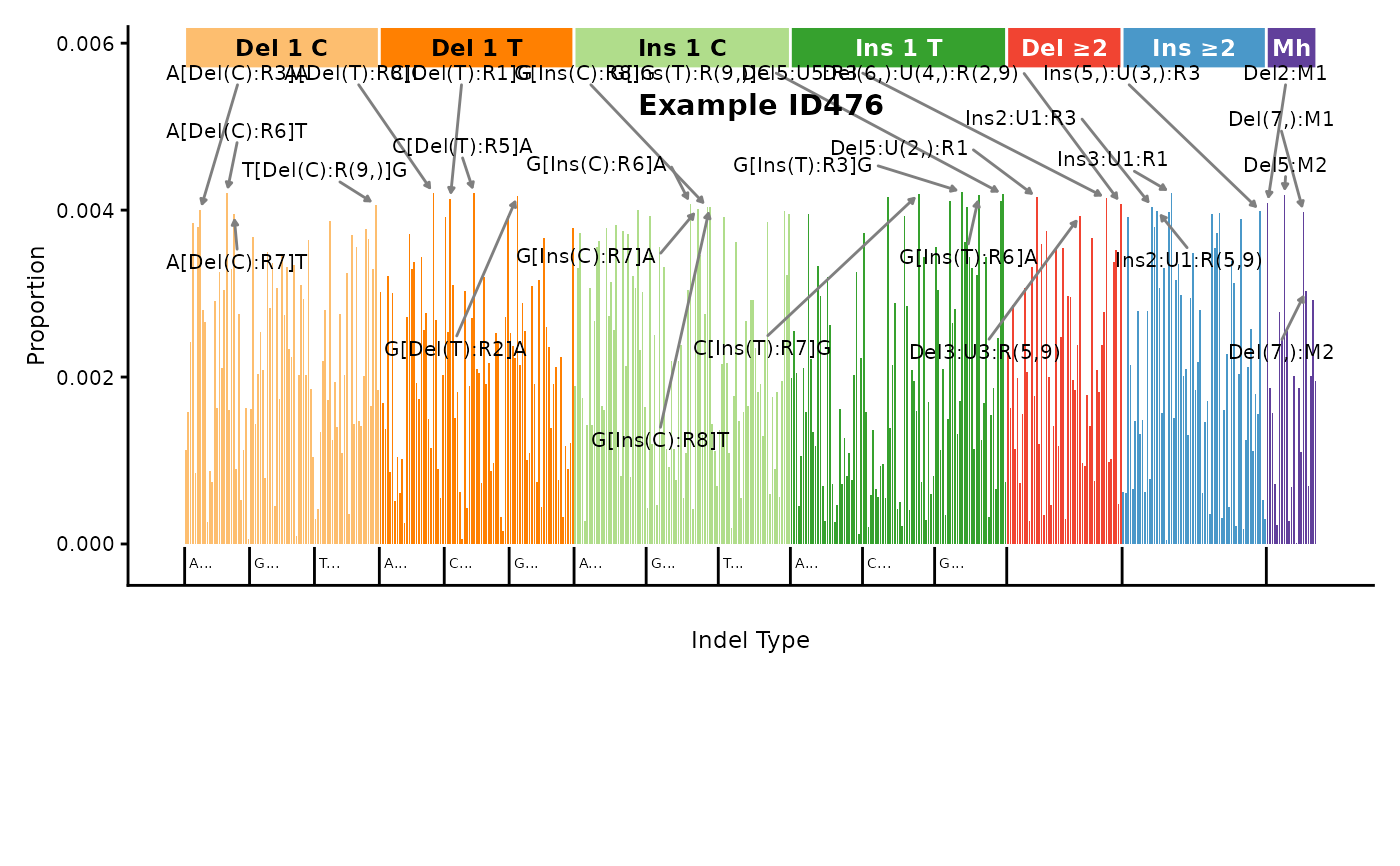
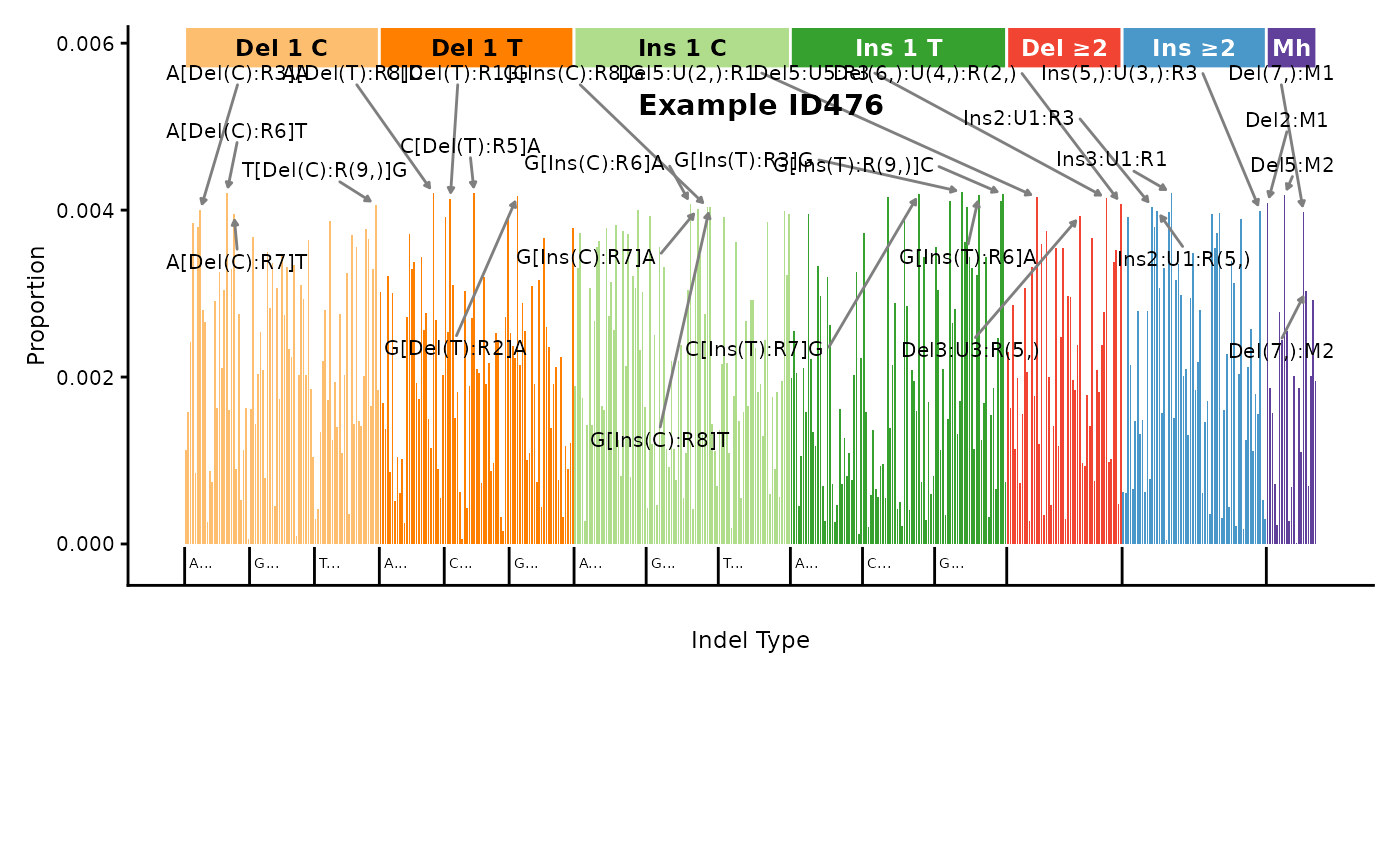
Deploying to gh-pages from @ steverozen/mSigPlot@91add52c605b68772f7c5bc948a8770e1715b179 🚀

diff --git a/reference/catalog_and_label_order_476.html b/reference/catalog_and_label_order_476.html
@@ -1,0 +1,71 @@
+<!DOCTYPE html>
+<!-- Generated by pkgdown: do not edit by hand --><html lang="en"><head><meta http-equiv="Content-Type" content="text/html; charset=UTF-8"><meta charset="utf-8"><meta http-equiv="X-UA-Compatible" content="IE=edge"><meta name="viewport" content="width=device-width, initial-scale=1, shrink-to-fit=no"><title>Return the 476-channel indel type classification table — catalog_and_label_order_476 • mSigPlot</title><script src="../deps/jquery-3.6.0/jquery-3.6.0.min.js"></script><meta name="viewport" content="width=device-width, initial-scale=1, shrink-to-fit=no"><link href="../deps/bootstrap-5.3.1/bootstrap.min.css" rel="stylesheet"><script src="../deps/bootstrap-5.3.1/bootstrap.bundle.min.js"></script><link href="../deps/font-awesome-6.5.2/css/all.min.css" rel="stylesheet"><link href="../deps/font-awesome-6.5.2/css/v4-shims.min.css" rel="stylesheet"><script src="../deps/headroom-0.11.0/headroom.min.js"></script><script src="../deps/headroom-0.11.0/jQuery.headroom.min.js"></script><script src="../deps/bootstrap-toc-1.0.1/bootstrap-toc.min.js"></script><script src="../deps/clipboard.js-2.0.11/clipboard.min.js"></script><script src="../deps/search-1.0.0/autocomplete.jquery.min.js"></script><script src="../deps/search-1.0.0/fuse.min.js"></script><script src="../deps/search-1.0.0/mark.min.js"></script><!-- pkgdown --><script src="../pkgdown.js"></script><meta property="og:title" content="Return the 476-channel indel type classification table — catalog_and_label_order_476"><meta name="description" content="Constructs a data frame mapping 476 indel channels to their type and class."><meta property="og:description" content="Constructs a data frame mapping 476 indel channels to their type and class."></head><body>
+    <a href="#main" class="visually-hidden-focusable">Skip to contents</a>
+
+
+    <nav class="navbar navbar-expand-lg fixed-top bg-primary" data-bs-theme="dark" aria-label="Site navigation"><div class="container">
+
+    <a class="navbar-brand me-2" href="../index.html">mSigPlot</a>
+
+    <small class="nav-text text-muted me-auto" data-bs-toggle="tooltip" data-bs-placement="bottom" title="">2.0.40</small>
+
+
+    <button class="navbar-toggler" type="button" data-bs-toggle="collapse" data-bs-target="#navbar" aria-controls="navbar" aria-expanded="false" aria-label="Toggle navigation">
+      <span class="navbar-toggler-icon"></span>
+    </button>
+
+    <div id="navbar" class="collapse navbar-collapse ms-3">
+      <ul class="navbar-nav me-auto"><li class="nav-item"><a class="nav-link" href="../articles/mSigPlot.html">Get Started</a></li>
+<li class="active nav-item"><a class="nav-link" href="../reference/index.html">Reference</a></li>
+<li class="nav-item"><a class="nav-link" href="../articles/index.html">Articles</a></li>
+<li class="nav-item"><a class="nav-link" href="../news/index.html">Changelog</a></li>
+      </ul><ul class="navbar-nav"><li class="nav-item"><a class="external-link nav-link" href="https://github.com/steverozen/mSigPlot/" aria-label="GitHub"><span class="fa fab fa-github fa-lg"></span></a></li>
+<li class="nav-item"><form class="form-inline" role="search">
+ <input class="form-control" type="search" name="search-input" id="search-input" autocomplete="off" aria-label="Search site" placeholder="Search for" data-search-index="../search.json"></form></li>
+      </ul></div>
+
+
+  </div>
+</nav><div class="container template-reference-topic">
+<div class="row">
+  <main id="main" class="col-md-9"><div class="page-header">
+
+      <h1>Return the 476-channel indel type classification table</h1>
+      <small class="dont-index">Source: <a href="https://github.com/steverozen/mSigPlot/blob/main/R/catalog_and_label_order_476.R" class="external-link"><code>R/catalog_and_label_order_476.R</code></a></small>
+      <div class="d-none name"><code>catalog_and_label_order_476.Rd</code></div>
+    </div>
+
+    <div class="ref-description section level2">
+    <p>Constructs a data frame mapping 476 indel channels to their type and class.</p>
+    </div>
+
+    <div class="section level2">
+    <h2 id="ref-usage">Usage<a class="anchor" aria-label="anchor" href="#ref-usage"></a></h2>
+    <div class="sourceCode"><pre class="sourceCode r"><code><span><span class="fu">catalog_and_label_order_476</span><span class="op">(</span><span class="op">)</span></span></code></pre></div>
+    </div>
+
+    <div class="section level2">
+    <h2 id="value">Value<a class="anchor" aria-label="anchor" href="#value"></a></h2>
+    <p>A 476-row data frame with columns: IndelType, Indel.</p>
+    </div>
+
+  </main><aside class="col-md-3"><nav id="toc" aria-label="Table of contents"><h2>On this page</h2>
+    </nav></aside></div>
+
+
+    <footer><div class="pkgdown-footer-left">
+  <p>Developed by Steven Rozen.</p>
+</div>
+
+<div class="pkgdown-footer-right">
+  <p>Site built with <a href="https://pkgdown.r-lib.org/" class="external-link">pkgdown</a> 2.2.0.</p>
+</div>
+
+    </footer></div>
+
+
+
+
+
+  </body></html>
+

diff --git a/articles/mSigPlot.html b/articles/mSigPlot.html
@@ -20,7 +20,7 @@
 
     <a class="navbar-brand me-2" href="../index.html">mSigPlot</a>
 
-    <small class="nav-text text-muted me-auto" data-bs-toggle="tooltip" data-bs-placement="bottom" title="">2.0.39</small>
+    <small class="nav-text text-muted me-auto" data-bs-toggle="tooltip" data-bs-placement="bottom" title="">2.0.40</small>
 
 
     <button class="navbar-toggler" type="button" data-bs-toggle="collapse" data-bs-target="#navbar" aria-controls="navbar" aria-expanded="false" aria-label="Toggle navigation">
@@ -55,7 +55,7 @@
       <h1>Plotting mutational signatures with mSigPlot</h1>
             
       
-      <small class="dont-index">Source: <a href="https://github.com/steverozen/mSigPlot/blob/v2.0.38/vignettes/mSigPlot.Rmd" class="external-link"><code>vignettes/mSigPlot.Rmd</code></a></small>
+      <small class="dont-index">Source: <a href="https://github.com/steverozen/mSigPlot/blob/main/vignettes/mSigPlot.Rmd" class="external-link"><code>vignettes/mSigPlot.Rmd</code></a></small>
       <div class="d-none name"><code>mSigPlot.Rmd</code></div>
     </div>
 
@@ -153,8 +153,10 @@ classification, producing a detailed profile.</p>
 <span>                          package <span class="op">=</span> <span class="st">"mSigPlot"</span><span class="op">)</span></span>
 <span><span class="va">id476_sigs</span> <span class="op">&lt;-</span> <span class="fu"><a href="https://rdrr.io/r/utils/read.table.html" class="external-link">read.table</a></span><span class="op">(</span><span class="va">id476_file</span>, header <span class="op">=</span> <span class="cn">TRUE</span>, sep <span class="op">=</span> <span class="st">"\t"</span>,</span>
 <span>                         row.names <span class="op">=</span> <span class="fl">1</span>, check.names <span class="op">=</span> <span class="cn">FALSE</span><span class="op">)</span></span>
-<span><span class="fu"><a href="../reference/bar_plots.html">plot_ID476</a></span><span class="op">(</span><span class="va">id476_sigs</span><span class="op">[</span>, <span class="fl">1</span>, drop <span class="op">=</span> <span class="cn">FALSE</span><span class="op">]</span>, plot_title <span class="op">=</span> <span class="st">"ID476 signature"</span><span class="op">)</span></span></code></pre></div>
-<p><img src="mSigPlot_files/figure-html/id476-1.png" class="r-plt" alt="" width="100%"></p>
+<span><span class="fu"><a href="../reference/bar_plots.html">plot_ID476</a></span><span class="op">(</span><span class="va">id476_sigs</span><span class="op">[</span>, <span class="fl">1</span>, drop <span class="op">=</span> <span class="cn">FALSE</span><span class="op">]</span>, plot_title <span class="op">=</span> <span class="st">"ID476 signature"</span><span class="op">)</span></span>
+<span><span class="co">#&gt; Warning in normalize_catalog(catalog, 476, catalog_row_order()$ID476, "ID476"):</span></span>
+<span><span class="co">#&gt; Row names of catalog do not match canonical ID476 row names; returning NULL</span></span>
+<span><span class="co">#&gt; NULL</span></span></code></pre></div>
 <div class="section level3">
 <h3 id="id476-right-panel">ID476 right panel<a class="anchor" aria-label="anchor" href="#id476-right-panel"></a>
 </h3>
@@ -162,8 +164,10 @@ classification, producing a detailed profile.</p>
 be plotted separately for a closer look at multi-base indels.</p>
 <div class="sourceCode" id="cb9"><pre class="downlit sourceCode r">
 <code class="sourceCode R"><span><span class="fu"><a href="../reference/bar_plots.html">plot_ID476_right</a></span><span class="op">(</span><span class="va">id476_sigs</span><span class="op">[</span>, <span class="fl">1</span>, drop <span class="op">=</span> <span class="cn">FALSE</span><span class="op">]</span>,</span>
-<span>                 plot_title <span class="op">=</span> <span class="st">"ID476 right panel"</span><span class="op">)</span></span></code></pre></div>
-<p><img src="mSigPlot_files/figure-html/id476-right-1.png" class="r-plt" alt="" width="100%"></p>
+<span>                 plot_title <span class="op">=</span> <span class="st">"ID476 right panel"</span><span class="op">)</span></span>
+<span><span class="co">#&gt; Warning in normalize_catalog(catalog, 476, catalog_row_order()$ID476, "ID476"):</span></span>
+<span><span class="co">#&gt; Row names of catalog do not match canonical ID476 row names; returning NULL</span></span>
+<span><span class="co">#&gt; NULL</span></span></code></pre></div>
 </div>
 </div>
 <div class="section level2">

diff --git a/reference/catalog_row_order.html b/reference/catalog_row_order.html
@@ -1,9 +1,9 @@
 <!DOCTYPE html>
 <!-- Generated by pkgdown: do not edit by hand --><html lang="en"><head><meta http-equiv="Content-Type" content="text/html; charset=UTF-8"><meta charset="utf-8"><meta http-equiv="X-UA-Compatible" content="IE=edge"><meta name="viewport" content="width=device-width, initial-scale=1, shrink-to-fit=no"><title>Return catalog row orders for all supported catalog types — catalog_row_order • mSigPlot</title><script src="../deps/jquery-3.6.0/jquery-3.6.0.min.js"></script><meta name="viewport" content="width=device-width, initial-scale=1, shrink-to-fit=no"><link href="../deps/bootstrap-5.3.1/bootstrap.min.css" rel="stylesheet"><script src="../deps/bootstrap-5.3.1/bootstrap.bundle.min.js"></script><link href="../deps/font-awesome-6.5.2/css/all.min.css" rel="stylesheet"><link href="../deps/font-awesome-6.5.2/css/v4-shims.min.css" rel="stylesheet"><script src="../deps/headroom-0.11.0/headroom.min.js"></script><script src="../deps/headroom-0.11.0/jQuery.headroom.min.js"></script><script src="../deps/bootstrap-toc-1.0.1/bootstrap-toc.min.js"></script><script src="../deps/clipboard.js-2.0.11/clipboard.min.js"></script><script src="../deps/search-1.0.0/autocomplete.jquery.min.js"></script><script src="../deps/search-1.0.0/fuse.min.js"></script><script src="../deps/search-1.0.0/mark.min.js"></script><!-- pkgdown --><script src="../pkgdown.js"></script><meta property="og:title" content="Return catalog row orders for all supported catalog types — catalog_row_order"><meta name="description" content="Returns a named list containing the canonical row ordering for each
 catalog type. These are used for validation and ordering of mutation
-catalogs. The result is cached after the first call."><meta property="og:description" content="Returns a named list containing the canonical row ordering for each
+catalogs."><meta property="og:description" content="Returns a named list containing the canonical row ordering for each
 catalog type. These are used for validation and ordering of mutation
-catalogs. The result is cached after the first call."></head><body>
+catalogs."></head><body>
     <a href="#main" class="visually-hidden-focusable">Skip to contents</a>
 
 
@@ -11,7 +11,7 @@ catalogs. The result is cached after the first call."></head><body>
 
     <a class="navbar-brand me-2" href="../index.html">mSigPlot</a>
 
-    <small class="nav-text text-muted me-auto" data-bs-toggle="tooltip" data-bs-placement="bottom" title="">2.0.39</small>
+    <small class="nav-text text-muted me-auto" data-bs-toggle="tooltip" data-bs-placement="bottom" title="">2.0.40</small>
 
 
     <button class="navbar-toggler" type="button" data-bs-toggle="collapse" data-bs-target="#navbar" aria-controls="navbar" aria-expanded="false" aria-label="Toggle navigation">
@@ -35,14 +35,14 @@ catalogs. The result is cached after the first call."></head><body>
   <main id="main" class="col-md-9"><div class="page-header">
 
       <h1>Return catalog row orders for all supported catalog types</h1>
-      <small class="dont-index">Source: <a href="https://github.com/steverozen/mSigPlot/blob/v2.0.38/R/catalog_row_order.R" class="external-link"><code>R/catalog_row_order.R</code></a></small>
+      <small class="dont-index">Source: <a href="https://github.com/steverozen/mSigPlot/blob/main/R/catalog_row_order.R" class="external-link"><code>R/catalog_row_order.R</code></a></small>
       <div class="d-none name"><code>catalog_row_order.Rd</code></div>
     </div>
 
     <div class="ref-description section level2">
     <p>Returns a named list containing the canonical row ordering for each
 catalog type. These are used for validation and ordering of mutation
-catalogs. The result is cached after the first call.</p>
+catalogs.</p>
     </div>
 
     <div class="section level2">
@@ -63,11 +63,6 @@ encodes the trinucleotide context as
 SBS288 row names add a strand prefix:
 <code>T:ACAA</code> (transcribed), <code>U:ACAA</code> (untranscribed), <code>N:ACAA</code>
 (non-transcribed).</p>
-<p>Catalogs with "stapled" row names (e.g. <code>A[C&gt;A]A</code> for SBS96,
-<code>T:A[C&gt;A]A</code> for SBS288) are automatically converted to compact format
-by <code><a href="normalize_catalog.html">normalize_catalog()</a></code> before validation, so both formats are
-accepted by all SBS plotting functions. (Only SBS functions
-use stapled row names.)</p>
     </div>
 
     <div class="section level2">

diff --git a/news/index.html b/news/index.html
@@ -7,7 +7,7 @@
 
     <a class="navbar-brand me-2" href="../index.html">mSigPlot</a>
 
-    <small class="nav-text text-muted me-auto" data-bs-toggle="tooltip" data-bs-placement="bottom" title="">2.0.39</small>
+    <small class="nav-text text-muted me-auto" data-bs-toggle="tooltip" data-bs-placement="bottom" title="">2.0.40</small>
 
 
     <button class="navbar-toggler" type="button" data-bs-toggle="collapse" data-bs-target="#navbar" aria-controls="navbar" aria-expanded="false" aria-label="Toggle navigation">
@@ -31,9 +31,13 @@
   <main id="main" class="col-md-9"><div class="page-header">
 
       <h1>Changelog</h1>
-      <small>Source: <a href="https://github.com/steverozen/mSigPlot/blob/v2.0.38/NEWS.md" class="external-link"><code>NEWS.md</code></a></small>
+      <small>Source: <a href="https://github.com/steverozen/mSigPlot/blob/main/NEWS.md" class="external-link"><code>NEWS.md</code></a></small>
     </div>
 
+    <div class="section level2">
+<h2 class="pkg-version" data-toc-text="2.0.40" id="msigplot-2040">mSigPlot 2.0.40<a class="anchor" aria-label="anchor" href="#msigplot-2040"></a></h2>
+<ul><li>Updated row names for 476-type plots. Renamed R/type_476_indel_type.R to R/catalog_and_label_order_476.R and the function type_476_indel_type() to catalog_and_label_order_476(). Updated callers and docs.</li>
+</ul></div>
     <div class="section level2">
 <h2 class="pkg-version" data-toc-text="2.0.39" id="msigplot-2039">mSigPlot 2.0.39<a class="anchor" aria-label="anchor" href="#msigplot-2039"></a></h2>
 <ul><li>Moved stapled row name documentation from <code><a href="../reference/catalog_row_order.html">catalog_row_order()</a></code> to the <code>@param catalog</code> description shared by all bar plot functions, where it is more relevant.</li>
@@ -69,7 +73,7 @@
 <h2 class="pkg-version" data-toc-text="2.0.33" id="msigplot-2033">mSigPlot 2.0.33<a class="anchor" aria-label="anchor" href="#msigplot-2033"></a></h2>
 <ul><li>Refactored <code><a href="../reference/bar_plots.html">plot_ID89()</a></code>: the internal <code>IndelType</code> column now derives from <code>catalog_row_order()$ID89</code> instead of an inline 89-element literal, giving a single source of truth for channel names.</li>
 <li>New internal helper <code><a href="../reference/id89_figlabels.html">id89_figlabels()</a></code> derives x-axis tick labels algorithmically from the canonical <code>IndelType</code> strings. Open-ended repeat tracts are rendered as <code>(N+)</code> (e.g. <code>T(8+)</code>, <code>C(7+)</code>, <code>R(5+)</code>) rather than the former <code>(8,9)</code> / <code>(7,9)</code> notation; sub-block bracket labels also use the <code>(N+)</code> style.</li>
-<li>Removed the unused <code>Indel3</code> column from <code><a href="../reference/bar_plots.html">plot_ID89()</a></code> and from <code><a href="../reference/type_476_indel_type.html">type_476_indel_type()</a></code> (never read).</li>
+<li>Removed the unused <code>Indel3</code> column from <code><a href="../reference/bar_plots.html">plot_ID89()</a></code> and from <code>type_476_indel_type()</code> (never read).</li>
 <li>Changed <code>stop_at_9</code> default in <code><a href="../reference/bar_plots.html">plot_ID89()</a></code> from <code>TRUE</code> to <code>FALSE</code>; the plot data is unchanged, but <code>(8+)</code> now communicates that the user must know their upstream trimming.</li>
 <li>Added a peak-label regression test (<code>plot_ID89 with peak labels</code>) and a corresponding <code>plot_ID89_peaks</code> entry in <code>tests/visual/</code>.</li>
 <li>Re-blessed regression hashes and visual reference PNGs for <code>plot_ID89</code> and <code>plot_ID89_peaks</code> to match the new label style.</li>

diff --git a/authors.html b/authors.html
@@ -7,7 +7,7 @@
 
     <a class="navbar-brand me-2" href="index.html">mSigPlot</a>
 
-    <small class="nav-text text-muted me-auto" data-bs-toggle="tooltip" data-bs-placement="bottom" title="">2.0.39</small>
+    <small class="nav-text text-muted me-auto" data-bs-toggle="tooltip" data-bs-placement="bottom" title="">2.0.40</small>
 
 
     <button class="navbar-toggler" type="button" data-bs-toggle="collapse" data-bs-target="#navbar" aria-controls="navbar" aria-expanded="false" aria-label="Toggle navigation">
@@ -44,17 +44,17 @@
 
     <div class="section level2">
       <h2 id="citation">Citation</h2>
-      <p><small class="dont-index">Source: <a href="https://github.com/steverozen/mSigPlot/blob/v2.0.38/DESCRIPTION" class="external-link"><code>DESCRIPTION</code></a></small></p>
+      <p><small class="dont-index">Source: <a href="https://github.com/steverozen/mSigPlot/blob/main/DESCRIPTION" class="external-link"><code>DESCRIPTION</code></a></small></p>
 
       <p>Rozen S (2026).
 <em>mSigPlot: Plotting Mutational Signatures and Mutational Spectra</em>.
-R package version 2.0.39, <a href="https://steverozen.github.io/mSigPlot/">https://steverozen.github.io/mSigPlot/</a>.
+R package version 2.0.40, <a href="https://steverozen.github.io/mSigPlot/">https://steverozen.github.io/mSigPlot/</a>.
 </p>
       <pre>@Manual{,
   title = {mSigPlot: Plotting Mutational Signatures and Mutational Spectra},
   author = {Steven Rozen},
   year = {2026},
-  note = {R package version 2.0.39},
+  note = {R package version 2.0.40},
   url = {https://steverozen.github.io/mSigPlot/},
 }</pre>
     </div>

diff --git a/reference/bar_plots.html b/reference/bar_plots.html
@@ -11,7 +11,7 @@ returns a patchwork object."></head><body>
 
     <a class="navbar-brand me-2" href="../index.html">mSigPlot</a>
 
-    <small class="nav-text text-muted me-auto" data-bs-toggle="tooltip" data-bs-placement="bottom" title="">2.0.39</small>
+    <small class="nav-text text-muted me-auto" data-bs-toggle="tooltip" data-bs-placement="bottom" title="">2.0.40</small>
 
 
     <button class="navbar-toggler" type="button" data-bs-toggle="collapse" data-bs-target="#navbar" aria-controls="navbar" aria-expanded="false" aria-label="Toggle navigation">
@@ -35,7 +35,7 @@ returns a patchwork object."></head><body>
   <main id="main" class="col-md-9"><div class="page-header">
 
       <h1>plot_DBS144, plot_DBS144_pdf, plot_DBS78, plot_DBS78_pdf, plot_ID166, plot_ID166_pdf, plot_ID476, plot_ID476_pdf, plot_ID476_right, plot_ID476_right_pdf, plot_ID83, plot_ID83_pdf, plot_ID89, plot_ID89_pdf, plot_SBS12, plot_SBS12_pdf, plot_SBS192, plot_SBS192_pdf, plot_SBS288, plot_SBS96, plot_SBS96_pdf</h1>
-      <small class="dont-index">Source: <a href="https://github.com/steverozen/mSigPlot/blob/v2.0.38/R/plot_DBS144.R" class="external-link"><code>R/plot_DBS144.R</code></a>, <a href="https://github.com/steverozen/mSigPlot/blob/v2.0.38/R/plot_DBS144_pdf.R" class="external-link"><code>R/plot_DBS144_pdf.R</code></a>, <a href="https://github.com/steverozen/mSigPlot/blob/v2.0.38/R/plot_DBS78.R" class="external-link"><code>R/plot_DBS78.R</code></a>, and 19 more</small>
+      <small class="dont-index">Source: <a href="https://github.com/steverozen/mSigPlot/blob/main/R/plot_DBS144.R" class="external-link"><code>R/plot_DBS144.R</code></a>, <a href="https://github.com/steverozen/mSigPlot/blob/main/R/plot_DBS144_pdf.R" class="external-link"><code>R/plot_DBS144_pdf.R</code></a>, <a href="https://github.com/steverozen/mSigPlot/blob/main/R/plot_DBS78.R" class="external-link"><code>R/plot_DBS78.R</code></a>, and 19 more</small>
       <div class="d-none name"><code>bar_plots.Rd</code></div>
     </div>
 
@@ -331,7 +331,9 @@ returns a patchwork object.</p>
 <dl><dt id="arg-catalog">catalog<a class="anchor" aria-label="anchor" href="#arg-catalog"></a></dt>
 <dd><p>Numeric vector, single-column data.frame, matrix, tibble,
 or data.table. If there are row names (or for a vector, names), they
-will be checked against <code><a href="catalog_row_order.html">catalog_row_order()</a></code>.</p></dd>
+will be checked against <code><a href="catalog_row_order.html">catalog_row_order()</a></code>. SBS functions also accept
+"stapled" row names (e.g. <code>A[C&gt;A]A</code> for SBS96, <code>T:A[C&gt;A]A</code> for SBS288),
+which are automatically converted to compact format before validation.</p></dd>
 
 
 <dt id="arg-plot-title">plot_title<a class="anchor" aria-label="anchor" href="#arg-plot-title"></a></dt>

diff --git a/reference/id89_figlabels.html b/reference/id89_figlabels.html
@@ -9,7 +9,7 @@ into the compact tick-label style used on the x-axis of plot_ID89()."></head><bo
 
     <a class="navbar-brand me-2" href="../index.html">mSigPlot</a>
 
-    <small class="nav-text text-muted me-auto" data-bs-toggle="tooltip" data-bs-placement="bottom" title="">2.0.39</small>
+    <small class="nav-text text-muted me-auto" data-bs-toggle="tooltip" data-bs-placement="bottom" title="">2.0.40</small>
 
 
     <button class="navbar-toggler" type="button" data-bs-toggle="collapse" data-bs-target="#navbar" aria-controls="navbar" aria-expanded="false" aria-label="Toggle navigation">
@@ -33,7 +33,7 @@ into the compact tick-label style used on the x-axis of plot_ID89()."></head><bo
   <main id="main" class="col-md-9"><div class="page-header">
 
       <h1>Derive ID89 figure-axis labels from canonical IndelType strings</h1>
-      <small class="dont-index">Source: <a href="https://github.com/steverozen/mSigPlot/blob/v2.0.38/R/id89_figlabels.R" class="external-link"><code>R/id89_figlabels.R</code></a></small>
+      <small class="dont-index">Source: <a href="https://github.com/steverozen/mSigPlot/blob/main/R/id89_figlabels.R" class="external-link"><code>R/id89_figlabels.R</code></a></small>
       <div class="d-none name"><code>id89_figlabels.Rd</code></div>
     </div>
 
@@ -77,13 +77,13 @@ space-padded to <code>M(N, )</code>, and all colons are removed.</p>
     <h2 id="ref-examples">Examples<a class="anchor" aria-label="anchor" href="#ref-examples"></a></h2>
     <div class="sourceCode"><pre class="sourceCode r"><code><span class="r-in"><span><span class="fu">id89_figlabels</span><span class="op">(</span><span class="fu"><a href="https://rdrr.io/r/base/c.html" class="external-link">c</a></span><span class="op">(</span></span></span>
 <span class="r-in"><span>  <span class="st">"[Del(C):R1]A"</span>,</span></span>
-<span class="r-in"><span>  <span class="st">"Del(C):R(6,9)"</span>,</span></span>
+<span class="r-in"><span>  <span class="st">"Del(C):R(6,)"</span>,</span></span>
 <span class="r-in"><span>  <span class="st">"Del(2,4):R1"</span>,</span></span>
 <span class="r-in"><span>  <span class="st">"Del(2,):U(1,2):R(5,)"</span>,</span></span>
 <span class="r-in"><span>  <span class="st">"Del(6,):M(4,)"</span>,</span></span>
 <span class="r-in"><span>  <span class="st">"Complex"</span></span></span>
 <span class="r-in"><span><span class="op">)</span><span class="op">)</span></span></span>
-<span class="r-out co"><span class="r-pr">#&gt;</span> [1] "[C1]A"            "C(6,9)"           "L(2,4)R1"         "L(2+)U(1,2)R(5+)"</span>
+<span class="r-out co"><span class="r-pr">#&gt;</span> [1] "[C1]A"            "C(6+)"            "L(2,4)R1"         "L(2+)U(1,2)R(5+)"</span>
 <span class="r-out co"><span class="r-pr">#&gt;</span> [5] "L(6+)M(4+)"       "Complex"         </span>
 <span class="r-in"><span></span></span>
 </code></pre></div>

diff --git a/CLAUDE.html b/CLAUDE.html
@@ -7,7 +7,7 @@
 
     <a class="navbar-brand me-2" href="index.html">mSigPlot</a>
 
-    <small class="nav-text text-muted me-auto" data-bs-toggle="tooltip" data-bs-placement="bottom" title="">2.0.39</small>
+    <small class="nav-text text-muted me-auto" data-bs-toggle="tooltip" data-bs-placement="bottom" title="">2.0.40</small>
 
 
     <button class="navbar-toggler" type="button" data-bs-toggle="collapse" data-bs-target="#navbar" aria-controls="navbar" aria-expanded="false" aria-label="Toggle navigation">
@@ -31,7 +31,7 @@
   <main id="main" class="col-md-9"><div class="page-header">
 
       <h1>CLAUDE.md</h1>
-      <small class="dont-index">Source: <a href="https://github.com/steverozen/mSigPlot/blob/v2.0.38/CLAUDE.md" class="external-link"><code>CLAUDE.md</code></a></small>
+      <small class="dont-index">Source: <a href="https://github.com/steverozen/mSigPlot/blob/main/CLAUDE.md" class="external-link"><code>CLAUDE.md</code></a></small>
     </div>
 
 <div id="claudemd" class="section level1">
@@ -96,7 +96,7 @@
 </div>
 <div class="section level3">
 <h3 id="indel-type-definitions">Indel Type Definitions<a class="anchor" aria-label="anchor" href="#indel-type-definitions"></a></h3>
-<p>The 476-channel indel type table is generated by <code><a href="reference/type_476_indel_type.html">type_476_indel_type()</a></code> (R/type_476_indel_type.R). The 89-channel table is defined inline within <code>plot_89()</code>. Both produce data frames with columns: IndelType, Indel, Indel3, Figlabel.</p>
+<p>The 476-channel indel type table is generated by <code><a href="reference/catalog_and_label_order_476.html">catalog_and_label_order_476()</a></code> (R/catalog_and_label_order_476.R). The 89-channel table is defined inline within <code>plot_89()</code>. Both produce data frames with columns: IndelType, Indel, Indel3, Figlabel.</p>
 </div>
 <div class="section level3">
 <h3 id="shared-conventions">Shared Conventions<a class="anchor" aria-label="anchor" href="#shared-conventions"></a></h3>

diff --git a/reference/prepare_indel_data.html b/reference/prepare_indel_data.html
@@ -11,7 +11,7 @@ and plot_ID89."></head><body>
 
     <a class="navbar-brand me-2" href="../index.html">mSigPlot</a>
 
-    <small class="nav-text text-muted me-auto" data-bs-toggle="tooltip" data-bs-placement="bottom" title="">2.0.39</small>
+    <small class="nav-text text-muted me-auto" data-bs-toggle="tooltip" data-bs-placement="bottom" title="">2.0.40</small>
 
 
     <button class="navbar-toggler" type="button" data-bs-toggle="collapse" data-bs-target="#navbar" aria-controls="navbar" aria-expanded="false" aria-label="Toggle navigation">
@@ -35,7 +35,7 @@ and plot_ID89."></head><body>
   <main id="main" class="col-md-9"><div class="page-header">
 
       <h1>Prepare indel data for plotting</h1>
-      <small class="dont-index">Source: <a href="https://github.com/steverozen/mSigPlot/blob/v2.0.38/R/plot_helpers.R" class="external-link"><code>R/plot_helpers.R</code></a></small>
+      <small class="dont-index">Source: <a href="https://github.com/steverozen/mSigPlot/blob/main/R/plot_helpers.R" class="external-link"><code>R/plot_helpers.R</code></a></small>
       <div class="d-none name"><code>prepare_indel_data.Rd</code></div>
     </div>
 
@@ -60,7 +60,7 @@ and <code>plot_ID89</code>.</p>
 
 <dt id="arg-type-table">type_table<a class="anchor" aria-label="anchor" href="#arg-type-table"></a></dt>
 <dd><p>Data frame with at least an <code>IndelType</code> column and
-classification columns (e.g. <code>Indel</code>, <code>Figlabel</code>).</p></dd>
+classification columns (e.g. <code>Indel</code>).</p></dd>
 
 </dl></div>
     <div class="section level2">

diff --git a/LICENSE.html b/LICENSE.html
@@ -7,7 +7,7 @@
 
     <a class="navbar-brand me-2" href="index.html">mSigPlot</a>
 
-    <small class="nav-text text-muted me-auto" data-bs-toggle="tooltip" data-bs-placement="bottom" title="">2.0.39</small>
+    <small class="nav-text text-muted me-auto" data-bs-toggle="tooltip" data-bs-placement="bottom" title="">2.0.40</small>
 
 
     <button class="navbar-toggler" type="button" data-bs-toggle="collapse" data-bs-target="#navbar" aria-controls="navbar" aria-expanded="false" aria-label="Toggle navigation">
@@ -31,7 +31,7 @@
   <main id="main" class="col-md-9"><div class="page-header">
 
       <h1>GNU General Public License</h1>
-      <small class="dont-index">Source: <a href="https://github.com/steverozen/mSigPlot/blob/v2.0.38/LICENSE.md" class="external-link"><code>LICENSE.md</code></a></small>
+      <small class="dont-index">Source: <a href="https://github.com/steverozen/mSigPlot/blob/main/LICENSE.md" class="external-link"><code>LICENSE.md</code></a></small>
     </div>
 
 <div id="gnu-general-public-license" class="section level1">

diff --git a/reference/add_peak_labels.html b/reference/add_peak_labels.html
@@ -11,7 +11,7 @@ dominant channels."></head><body>
 
     <a class="navbar-brand me-2" href="../index.html">mSigPlot</a>
 
-    <small class="nav-text text-muted me-auto" data-bs-toggle="tooltip" data-bs-placement="bottom" title="">2.0.39</small>
+    <small class="nav-text text-muted me-auto" data-bs-toggle="tooltip" data-bs-placement="bottom" title="">2.0.40</small>
 
 
     <button class="navbar-toggler" type="button" data-bs-toggle="collapse" data-bs-target="#navbar" aria-controls="navbar" aria-expanded="false" aria-label="Toggle navigation">
@@ -35,7 +35,7 @@ dominant channels."></head><body>
   <main id="main" class="col-md-9"><div class="page-header">
 
       <h1>Add peak labels with arrows to a ggplot</h1>
-      <small class="dont-index">Source: <a href="https://github.com/steverozen/mSigPlot/blob/v2.0.38/R/plot_helpers.R" class="external-link"><code>R/plot_helpers.R</code></a></small>
+      <small class="dont-index">Source: <a href="https://github.com/steverozen/mSigPlot/blob/main/R/plot_helpers.R" class="external-link"><code>R/plot_helpers.R</code></a></small>
       <div class="d-none name"><code>add_peak_labels.Rd</code></div>
     </div>
 

diff --git a/reference/add_plot_title.html b/reference/add_plot_title.html
@@ -15,7 +15,7 @@ plot_title_cex * base_size (points), normalized to mm for annotate.'></head><bod
 
     <a class="navbar-brand me-2" href="../index.html">mSigPlot</a>
 
-    <small class="nav-text text-muted me-auto" data-bs-toggle="tooltip" data-bs-placement="bottom" title="">2.0.39</small>
+    <small class="nav-text text-muted me-auto" data-bs-toggle="tooltip" data-bs-placement="bottom" title="">2.0.40</small>
 
 
     <button class="navbar-toggler" type="button" data-bs-toggle="collapse" data-bs-target="#navbar" aria-controls="navbar" aria-expanded="false" aria-label="Toggle navigation">
@@ -39,7 +39,7 @@ plot_title_cex * base_size (points), normalized to mm for annotate.'></head><bod
   <main id="main" class="col-md-9"><div class="page-header">
 
       <h1>Add a plot title, inside the panel (annotate) or above it (ggtitle)</h1>
-      <small class="dont-index">Source: <a href="https://github.com/steverozen/mSigPlot/blob/v2.0.38/R/plot_helpers.R" class="external-link"><code>R/plot_helpers.R</code></a></small>
+      <small class="dont-index">Source: <a href="https://github.com/steverozen/mSigPlot/blob/main/R/plot_helpers.R" class="external-link"><code>R/plot_helpers.R</code></a></small>
       <div class="d-none name"><code>add_plot_title.Rd</code></div>
     </div>
 